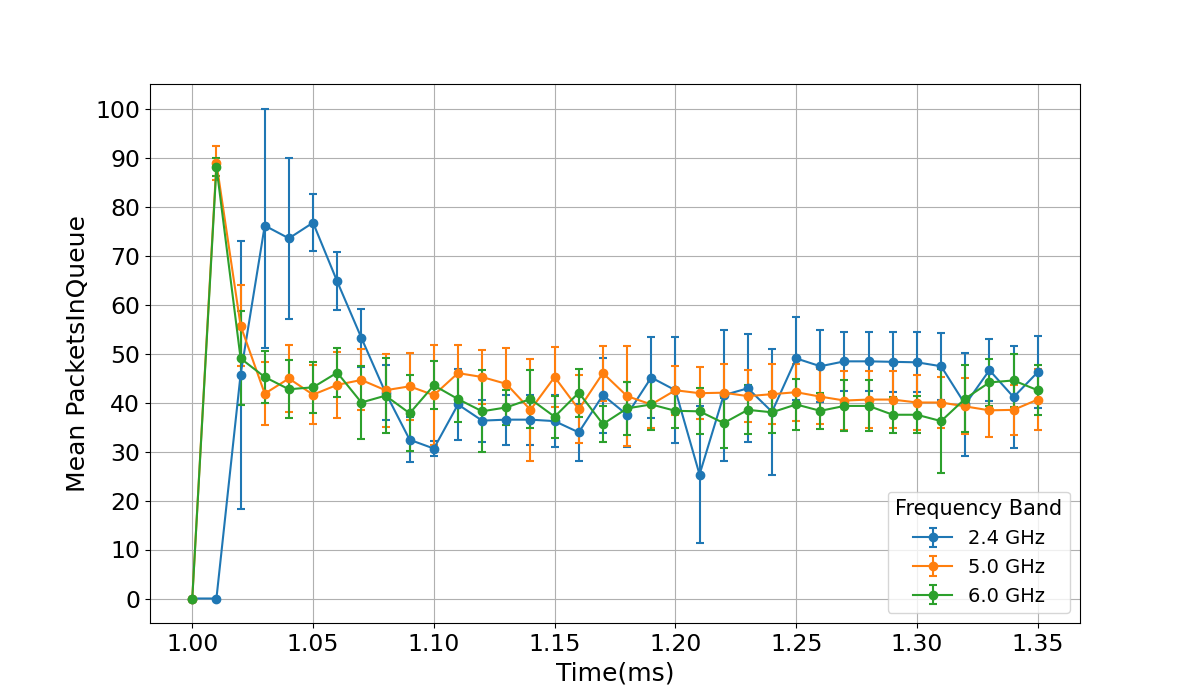
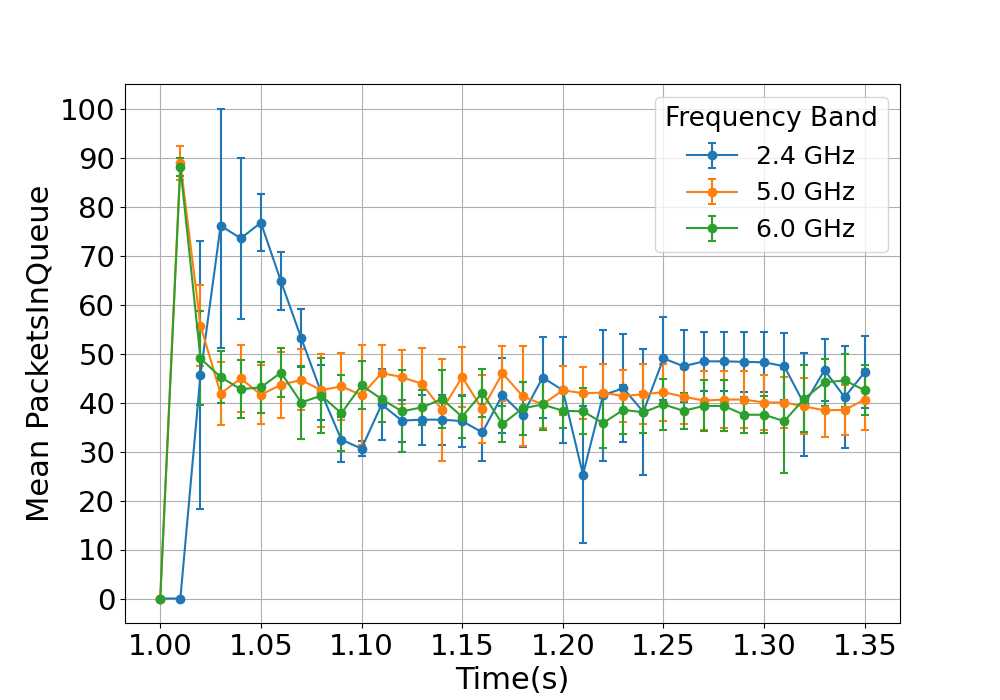
Aumentado tamaño de letra en gráficas queuePackets

diff --git a/dropPackets_tiempo/grafico1_queuePackets_new.py b/dropPackets_tiempo/grafico1_queuePackets_new.py
@@ -50,7 +50,7 @@ mean_df['CI_Upper'] = mean_df['PacketsInQueue'] + z_score * mean_df['Std_Packets
 mean_df['CI_Lower'] = mean_df['CI_Lower'].apply(lambda x: max(x, 0))
 mean_df['CI_Upper'] = mean_df['CI_Upper'].apply(lambda x: min(x, 100))
 
-plt.figure(figsize=(12, 7))
+plt.figure(figsize=(10, 7))
 
 # Graficar las líneas para cada frecuencia con barras de error para el intervalo de confianza
 for frequencyBand, group in mean_df.groupby('FrequencyBand(GHz)'):
@@ -59,13 +59,13 @@ for frequencyBand, group in mean_df.groupby('FrequencyBand(GHz)'):
                  yerr=[group_filtered['PacketsInQueue'] - group_filtered['CI_Lower'], group_filtered['CI_Upper'] - group_filtered['PacketsInQueue']], 
                  fmt='o-', capsize=3, elinewidth=1.5, capthick=1.5, label=f'{frequencyBand} GHz')
 
-plt.xlabel('Time(ms)', fontsize=18)
-plt.ylabel('Mean PacketsInQueue', fontsize=18)
+plt.xlabel('Time(s)', fontsize=22)
+plt.ylabel('Mean PacketsInQueue', fontsize=22)
 
-plt.xticks(fontsize=17)
-plt.yticks(np.arange(0, 101, 10), fontsize=17)
+plt.xticks(fontsize=21)
+plt.yticks(np.arange(0, 101, 10), fontsize=21)
 
-plt.legend(title='Frequency Band', title_fontsize=15 ,fontsize=14, loc='lower right')
+plt.legend(title='Frequency Band', title_fontsize=19 ,fontsize=18, loc='upper right')
 plt.grid(True)
 
 plt.show()

diff --git a/dropPackets_tiempo/grafico2_queuePackets_new.py b/dropPackets_tiempo/grafico2_queuePackets_new.py
@@ -50,7 +50,7 @@ mean_df['CI_Upper'] = mean_df['PacketsInQueue'] + z_score * mean_df['Std_Packets
 mean_df['CI_Lower'] = mean_df['CI_Lower'].apply(lambda x: max(x, 0))
 mean_df['CI_Upper'] = mean_df['CI_Upper'].apply(lambda x: min(x, 100))
 
-plt.figure(figsize=(12, 7))
+plt.figure(figsize=(10, 7))
 
 # Graficar las líneas para cada frecuencia con barras de error para el intervalo de confianza
 for frequencyBand, group in mean_df.groupby('FrequencyBand(GHz)'):
@@ -59,13 +59,13 @@ for frequencyBand, group in mean_df.groupby('FrequencyBand(GHz)'):
                  yerr=[group_filtered['PacketsInQueue'] - group_filtered['CI_Lower'], group_filtered['CI_Upper'] - group_filtered['PacketsInQueue']], 
                  fmt='o-', capsize=3, elinewidth=1.5, capthick=1.5, label=f'{frequencyBand} GHz')
 
-plt.xlabel('Time(s)', fontsize=18)
-plt.ylabel('Mean PacketsInQueue', fontsize=18)
+plt.xlabel('Time(s)', fontsize=22)
+plt.ylabel('Mean PacketsInQueue', fontsize=22)
 
-plt.xticks(fontsize=17)
-plt.yticks(np.arange(0, 101, 10), fontsize=17)
+plt.xticks(fontsize=21)
+plt.yticks(np.arange(0, 101, 10), fontsize=21)
 
-plt.legend(title='Frequency Band', title_fontsize=15 ,fontsize=14, loc='lower right')
+plt.legend(title='Frequency Band', title_fontsize=19 ,fontsize=18, loc='upper right')
 plt.grid(True)
 
 plt.show()
